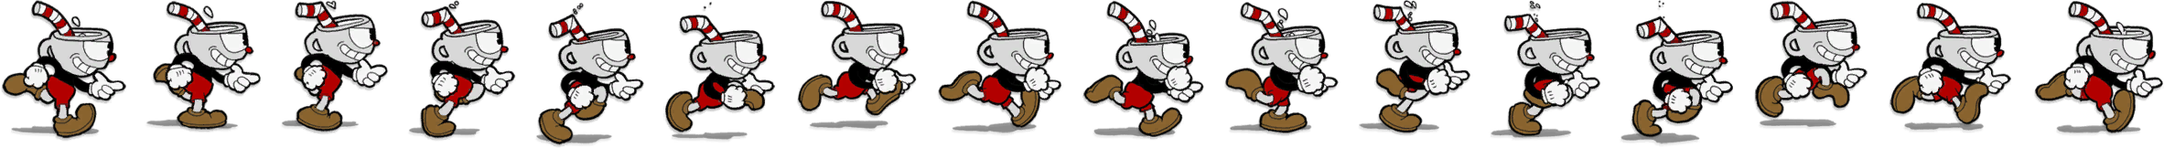
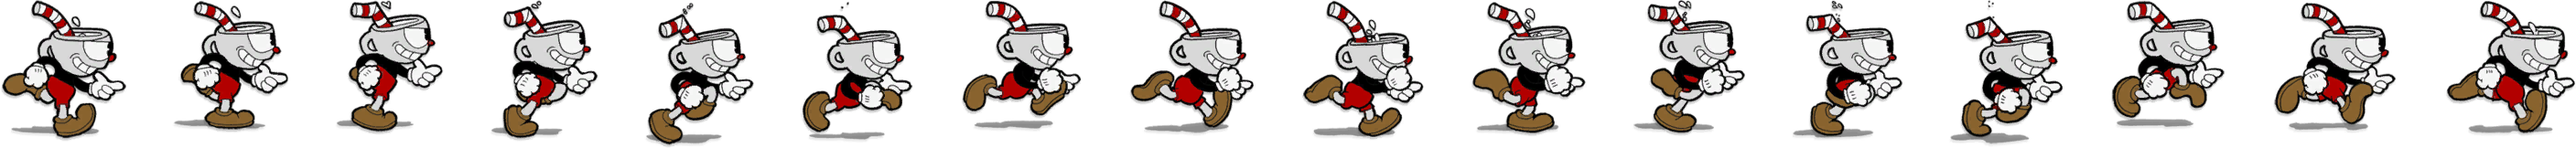
Player 걷기 구현
키보드 방향키로 좌우 이동 가능

Changed region(s): [[0.0, 0.0, 1.0, 0.9877], [0.3704, 0.8333, 0.4013, 0.8642]]

diff --git a/Scripts/Player.py b/Scripts/Player.py
@@ -101,9 +101,9 @@ class RunState:
     def draw(player):
 
         if player.dir == 1:
-            player.image.clip_draw(int(player.frame) * 148, 0, 149, 162, player.x, player.y)
+            player.image.clip_draw(int(player.frame) * 175, 0, 175, 162, player.x, player.y)
         else:
-            player.image.clip_draw(int(player.frame) * 129, 0, 120, 162, player.x, player.y)
+            player.image.clip_draw(int(player.frame) * 175, 162, 175, 162, player.x, player.y)
 
 
 
